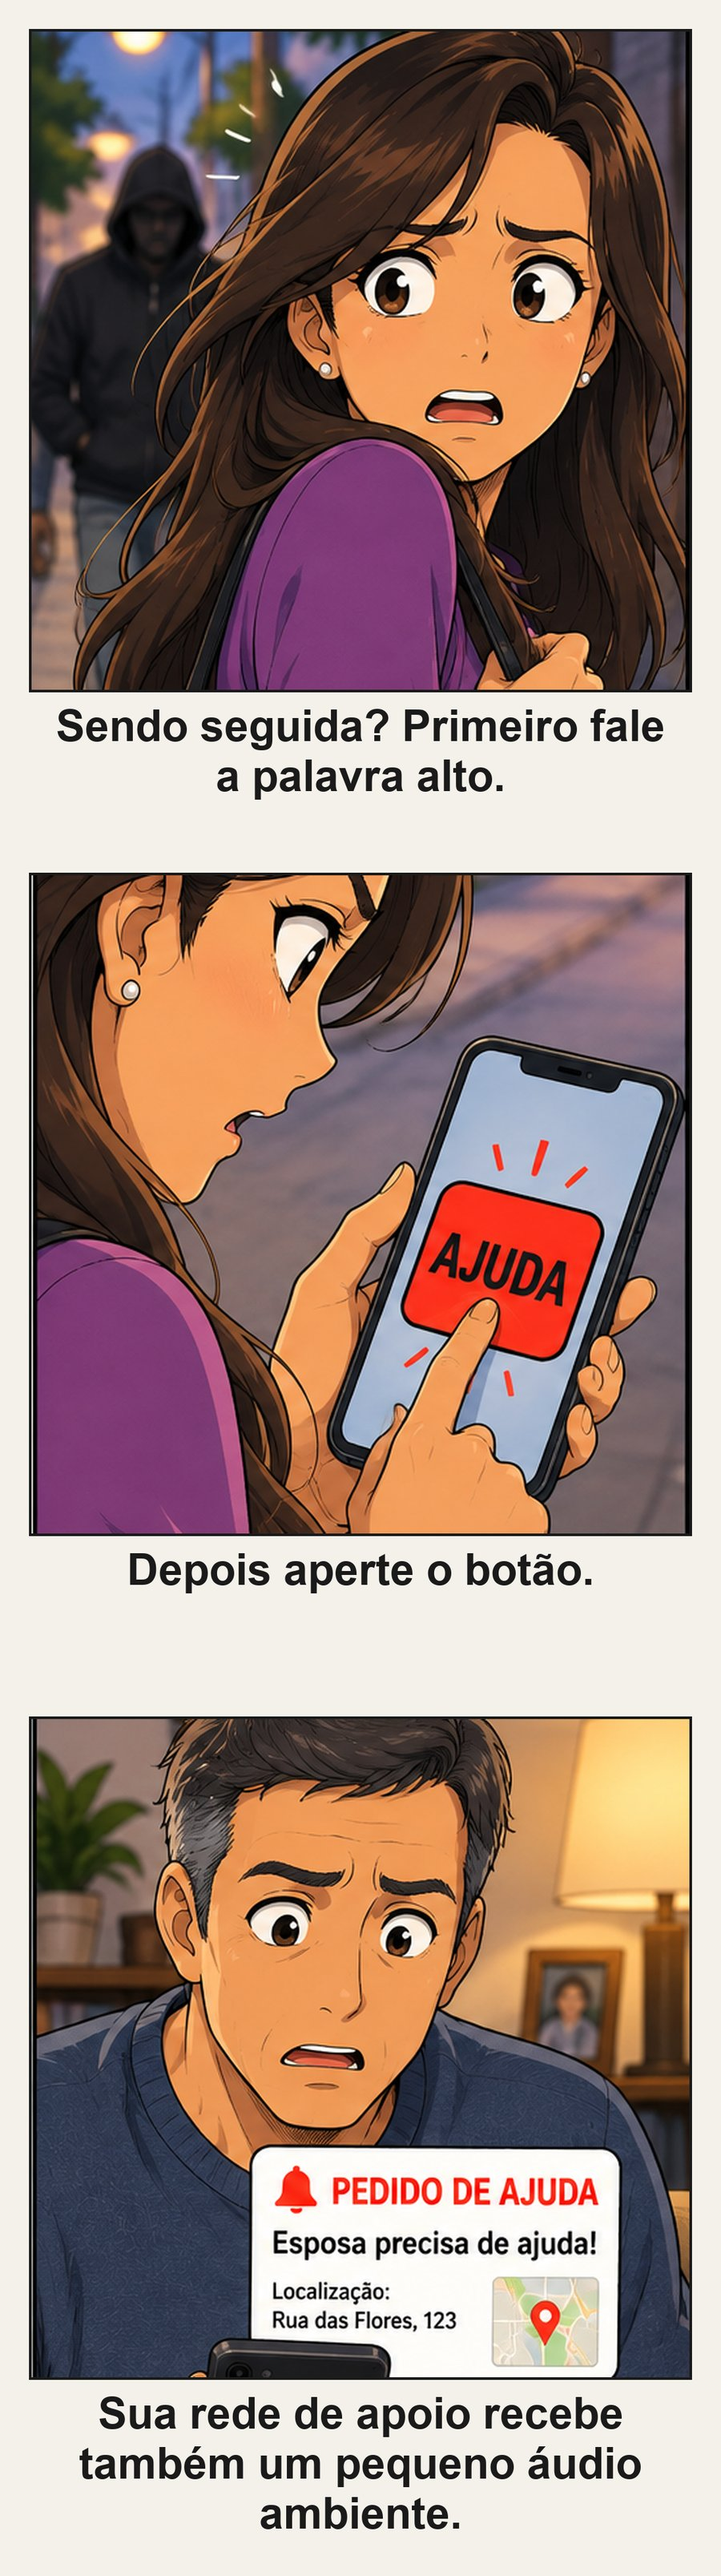
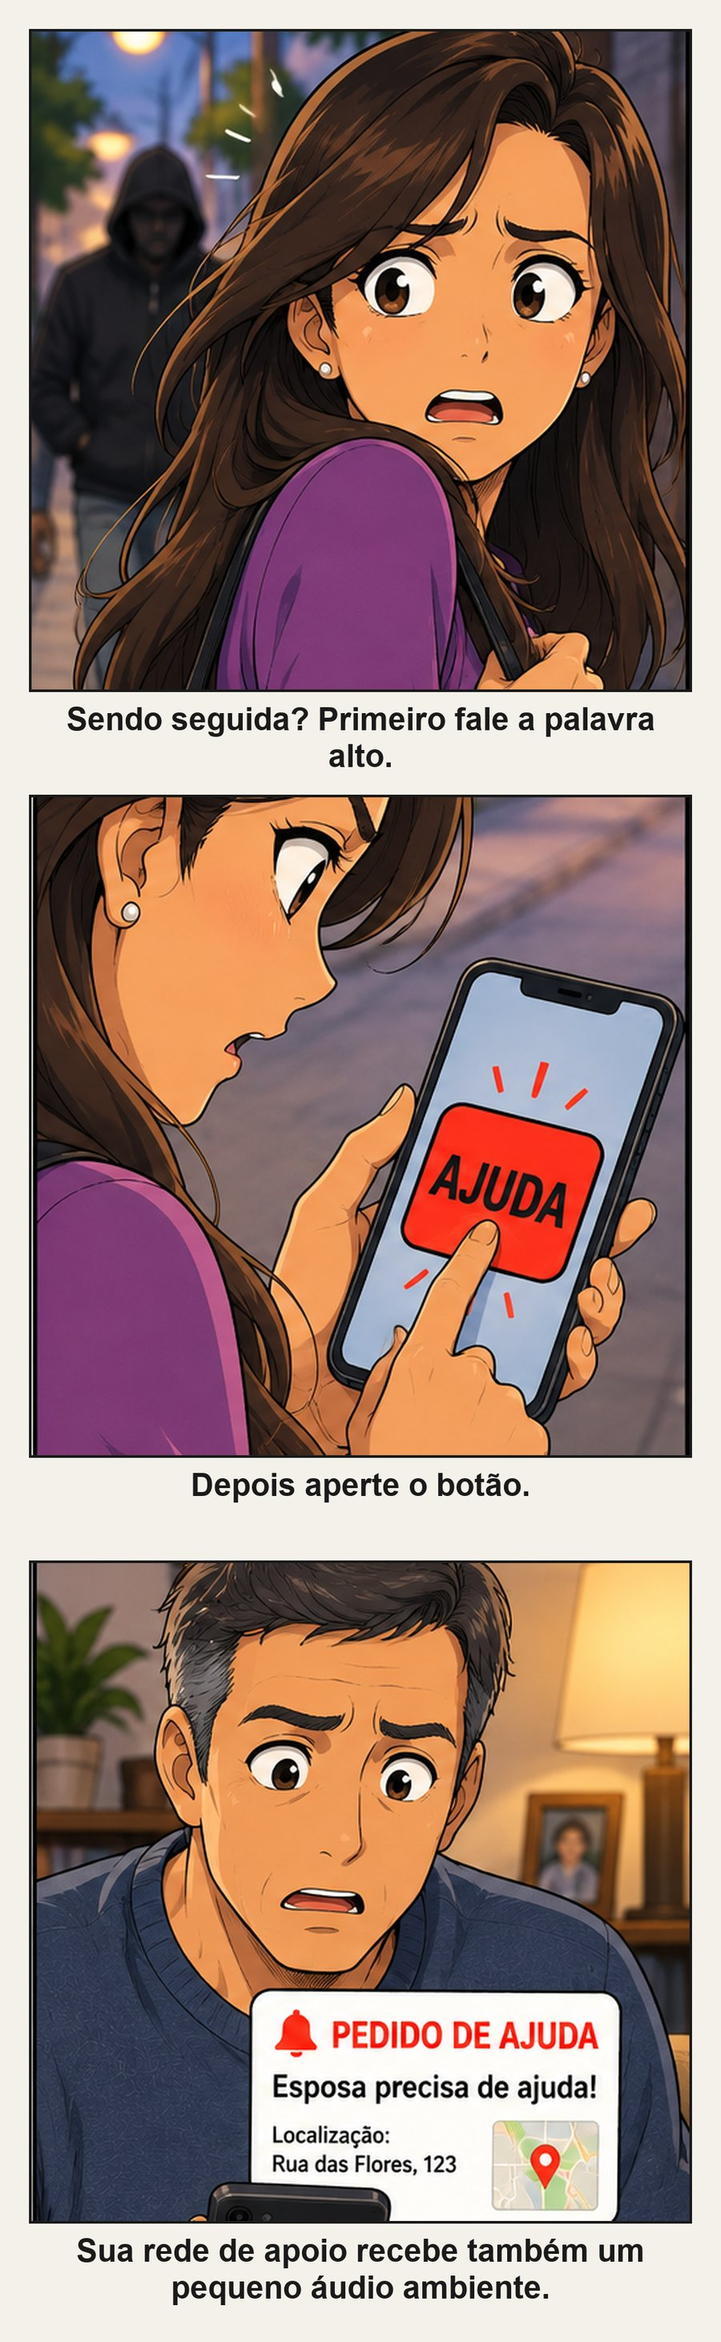
site: legendas das tiras em 1.4x (48px) + ?v=4

diff --git a/site/index.html b/site/index.html
@@ -459,18 +459,18 @@ footer{padding:70px 0 calc(45px + env(safe-area-inset-bottom));text-align:center
       Algo acontece &rarr; um gesto discreto &rarr; a rede de apoio recebe o pedido de ajuda, com &aacute;udio e localiza&ccedil;&atilde;o.
     </p>
     <picture>
-      <source media="(max-width: 640px)" srcset="tira-queda-v.jpg?v=3">
-      <img src="tira-queda.jpg?v=3" alt="Uma queda em casa: a pessoa diz a palavra-código e o pedido de ajuda é enviado"
+      <source media="(max-width: 640px)" srcset="tira-queda-v.jpg?v=4">
+      <img src="tira-queda.jpg?v=4" alt="Uma queda em casa: a pessoa diz a palavra-código e o pedido de ajuda é enviado"
            style="width:80%;height:auto;border-radius:12px;display:block;margin:0 auto 20px;">
     </picture>
     <picture>
-      <source media="(max-width: 640px)" srcset="tira-chacoalhar-v.jpg?v=3">
-      <img src="tira-chacoalhar.jpg?v=3" alt="Aflição no sofá: a pessoa chacoalha o celular e o pedido de ajuda é enviado"
+      <source media="(max-width: 640px)" srcset="tira-chacoalhar-v.jpg?v=4">
+      <img src="tira-chacoalhar.jpg?v=4" alt="Aflição no sofá: a pessoa chacoalha o celular e o pedido de ajuda é enviado"
            style="width:80%;height:auto;border-radius:12px;display:block;margin:0 auto 20px;">
     </picture>
     <picture>
-      <source media="(max-width: 640px)" srcset="tira-rua-v.jpg?v=3">
-      <img src="tira-rua.jpg?v=3" alt="Na rua, sendo seguida: ela aperta o botão PEDIR AJUDA e a rede de apoio recebe o alerta com a localização"
+      <source media="(max-width: 640px)" srcset="tira-rua-v.jpg?v=4">
+      <img src="tira-rua.jpg?v=4" alt="Na rua, sendo seguida: ela aperta o botão PEDIR AJUDA e a rede de apoio recebe o alerta com a localização"
            style="width:80%;height:auto;border-radius:12px;display:block;margin:0 auto;">
     </picture>
   </div>
